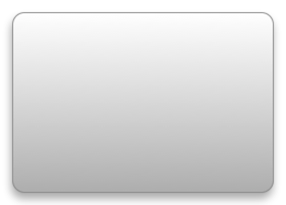
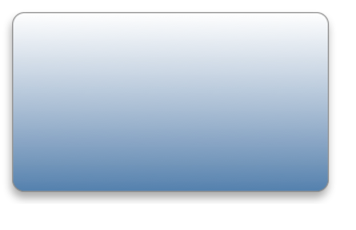
- repositioned things a bit. - added bid, ask, last volume, and updated time.
+ Still need to make it update.

diff --git a/project/widget.wdgt/main.css b/project/widget.wdgt/main.css
@@ -13,10 +13,10 @@ body {
     display: block;
     top: 0px;
     left: 0px;
-    bottom: 0px;
-    right: 0px;
     width: auto;
     height: auto;
+    right: 15px;
+    bottom: 26px;
 }
 
 #info {
@@ -25,6 +25,8 @@ body {
     bottom: 18px;
     width: 13px;
     height: 13px;
+    top: 173px;
+    left: 310px;
 }
 
 #back {
@@ -52,45 +54,242 @@ body {
 
 #helloText {
     position: absolute;
-    top: 31px;
+    top: 21px;
     width: 236px;
     color: black;
     font-family: HelveticaNeue-Bold;
-    font-size: 11pt;
+    font-size: 14pt;
     height: auto;
-    right: 23px;
-    margin-left: auto;
-    left: 27px;
-    margin-right: auto;
     text-align: center;
-}
-
-#backDevelopedWith {
-    position: absolute;
-    top: 67px;
-    left: 65px;
-    width: 150px;
-    height: 49px;
+    right: 68px;
     margin-left: auto;
+    left: 52px;
     margin-right: auto;
+    bottom: 185px;
 }
 
-#text {
-    font-size: 58px;
+#avg_24hr {
+    font-size: 68px;
     font-family: HelveticaNeue-Medium;
     text-overflow: ellipsis;
     overflow: hidden;
     width: auto;
     height: auto;
     position: absolute;
-    left: 27px;
-    top: 67px;
+    left: 17px;
+    top: 46px;
     margin-top: 0px;
-    right: 23px;
-    bottom: 33px;
     text-align: center;
+    text-shadow: rgb(191, 191, 191) 0px 0px 25px;
+    right: 33px;
+    bottom: 104px;
+}
+
+.selected #avg_24hr {
+    color: white;
+}
+
+#bid {
+    font-size: 14px;
+    font-family: 'Lucida Grande', Arial, sans-serif;
+    text-overflow: ellipsis;
+    overflow: hidden;
+    width: auto;
+    height: auto;
+    position: absolute;
+    left: 82px;
+    top: 130px;
+    margin-top: 0px;
+    text-shadow: none;
+    cursor: default;
+    -khtml-user-select: none;
+    right: 252px;
+    bottom: 84px;
+}
+
+.selected #bid {
+    color: white;
+}
+
+#text {
+    font-size: 13px;
+    font-family: 'Lucida Grande', Arial, sans-serif;
+    text-overflow: ellipsis;
+    overflow: hidden;
+    width: auto;
+    height: auto;
+    position: absolute;
+    left: 111px;
+    top: 131px;
+    margin-top: 0px;
+    right: 184px;
 }
 
 .selected #text {
     color: white;
+}
+
+#ask {
+    font-size: 14px;
+    font-family: 'Lucida Grande', Arial, sans-serif;
+    text-overflow: ellipsis;
+    overflow: hidden;
+    width: auto;
+    height: auto;
+    position: absolute;
+    left: 78px;
+    top: 147px;
+    margin-top: 0px;
+    right: 252px;
+    bottom: 67px;
+}
+
+.selected #ask {
+    color: white;
+}
+
+#text2 {
+    font-size: 13px;
+    font-family: 'Lucida Grande', Arial, sans-serif;
+    text-overflow: ellipsis;
+    overflow: hidden;
+    width: auto;
+    height: auto;
+    position: absolute;
+    left: 111px;
+    top: 147px;
+    margin-top: 0px;
+    right: 185px;
+}
+
+.selected #text2 {
+    color: white;
+}
+
+#vol {
+    font-size: 14px;
+    font-family: 'Lucida Grande', Arial, sans-serif;
+    text-overflow: ellipsis;
+    overflow: hidden;
+    width: auto;
+    height: auto;
+    position: absolute;
+    left: 183px;
+    top: 147px;
+    margin-top: 0px;
+    right: 151px;
+    bottom: 67px;
+}
+
+.selected #vol {
+    color: white;
+}
+
+#text4 {
+    font-size: 13px;
+    font-family: 'Lucida Grande', Arial, sans-serif;
+    text-overflow: ellipsis;
+    overflow: hidden;
+    width: auto;
+    height: auto;
+    position: absolute;
+    left: 215px;
+    top: 147px;
+    margin-top: 0px;
+    right: 75px;
+}
+
+.selected #text4 {
+    color: white;
+}
+
+#text6 {
+    font-size: 13px;
+    font-family: 'Lucida Grande', Arial, sans-serif;
+    text-overflow: ellipsis;
+    overflow: hidden;
+    width: auto;
+    height: auto;
+    position: absolute;
+    left: 215px;
+    top: 130px;
+    margin-top: 0px;
+    right: 75px;
+}
+
+.selected #text6 {
+    color: white;
+}
+
+#last {
+    font-size: 14px;
+    font-family: 'Lucida Grande', Arial, sans-serif;
+    text-overflow: ellipsis;
+    overflow: hidden;
+    width: auto;
+    height: auto;
+    position: absolute;
+    left: 177px;
+    top: 130px;
+    margin-top: 0px;
+    right: 155px;
+    bottom: 84px;
+}
+
+.selected #last {
+    color: white;
+}
+
+#timestamp {
+    font-size: 13px;
+    font-family: HelveticaNeue-LightItalic;
+    text-overflow: ellipsis;
+    overflow: hidden;
+    width: auto;
+    height: auto;
+    position: absolute;
+    left: 62px;
+    top: 173px;
+    margin-top: 0px;
+    color: rgb(0, 0, 0);
+    text-align: center;
+    text-shadow: none;
+    right: 78px;
+    bottom: 45px;
+}
+
+.selected #timestamp {
+    color: white;
+}
+
+#front {
+    width: auto;
+    height: auto;
+    margin-right: 0px;
+    margin-left: 0px;
+    min-height: 0px;
+}
+
+#image {
+    width: 126px;
+    height: 174px;
+    position: absolute;
+    left: 93px;
+    top: 28px;
+    right: auto;
+    bottom: auto;
+    margin-top: 0px;
+}
+
+#inner_image {
+    position: absolute;
+    bottom: 0px;
+    right: 0px;
+    left: 0px;
+    top: 0px;
+    margin: auto;
+    max-width: 100%;
+    max-height: 100%;
+    width: auto;
+    height: auto;
 }

diff --git a/project/widget.wdgt/main.html b/project/widget.wdgt/main.html
@@ -12,15 +12,24 @@
 </head>
 <body onload="load();" apple-part="com.apple.Dashcode.part.StackLayout">
     <div id="front">
-        <img id="frontImg" src="Parts/Images/front.png" alt="" apple-locked="true" apple-part="com.apple.Dashcode.part.frontimage" apple-style="image-theme: 1; image-shape: 3; image-opacity: 1.00; image-top-color: 1.0000,1.0000,1.0000; image-bottom-color: 0.6154,0.6154,0.6154; image-radius: 12,12,12,12; image-border: 1; image-border-color: 0.5294,0.5294,0.5294; image-border-width: 1; shine-strength: 0.9; shine-alpha-level: 0.67; shine-height: 0.50; glass-arc-height: 0.06; shadow-include-shadow: 1; shadow-blur: 9.00; shadow-offset: -1.00,-6.00; shadow-color: 0.0000,0.0000,0.0000,0.3333;">
+        <img id="frontImg" src="Parts/Images/front.png" alt="" apple-locked="true" apple-part="com.apple.Dashcode.part.frontimage" apple-style="image-theme: 1; image-shape: 3; image-opacity: 1.00; image-top-color: 1,1,1,1; image-bottom-color: 0.26144566,0.421692798,0.6154,1; image-radius: 12,12,12,12; image-border: 1; image-border-color: 0.5294,0.5294,0.5294,1; image-border-width: 1; shine-strength: 0.90; shine-alpha-level: 0.67; shine-height: 0.50; glass-arc-height: 0.06; shadow-include-shadow: 1; shadow-offset: -1.00,-6.00; shadow-color: 0,0,0,0.3333;">
         <div class="apple-no-children" id="info" apple-part="com.apple.Dashcode.part.infobutton" apple-default-image-visibility="hidden"></div>
-        <div apple-part="com.apple.Dashcode.part.text" class="apple-text apple-no-children" id="helloText" apple-group="text" apple-default-image-visibility="hidden" apple-style="part-height-dependent: true;"></div>
-        <div id="text" apple-part="com.apple.Dashcode.part.text" class="apple-text apple-no-children" apple-default-image-visibility="hidden" apple-text-overflow="ellipsis"></div>
+        <div apple-part="com.apple.Dashcode.part.text" class="apple-text apple-no-children" id="helloText" apple-group="text" apple-default-image-visibility="hidden"></div>
+        <div id="avg_24hr" apple-part="com.apple.Dashcode.part.text" class="apple-text apple-no-children" apple-default-image-visibility="hidden" apple-text-overflow="ellipsis"></div>
+        <div id="bid" apple-part="com.apple.Dashcode.part.text" class="apple-text apple-no-children" apple-default-image-visibility="hidden" apple-text-overflow="ellipsis" apple-locked="false"></div>
+        <div id="text" apple-part="com.apple.Dashcode.part.text" class="apple-text apple-no-children" apple-default-image-visibility="hidden" apple-text-overflow="ellipsis" apple-style="part-height-dependent: true;"></div>
+        <div id="ask" apple-part="com.apple.Dashcode.part.text" class="apple-text apple-no-children" apple-default-image-visibility="hidden" apple-text-overflow="ellipsis"></div>
+        <div id="text2" apple-part="com.apple.Dashcode.part.text" class="apple-text apple-no-children" apple-default-image-visibility="hidden" apple-text-overflow="ellipsis" apple-style="part-height-dependent: true;"></div>
+        <div id="vol" apple-part="com.apple.Dashcode.part.text" class="apple-text apple-no-children" apple-default-image-visibility="hidden" apple-text-overflow="ellipsis"></div>
+        <div id="text4" apple-part="com.apple.Dashcode.part.text" class="apple-text apple-no-children" apple-default-image-visibility="hidden" apple-text-overflow="ellipsis" apple-style="part-height-dependent: true;"></div>
+        <div id="last" apple-part="com.apple.Dashcode.part.text" class="apple-text apple-no-children" apple-default-image-visibility="hidden" apple-text-overflow="ellipsis"></div>
+        <div id="text6" apple-part="com.apple.Dashcode.part.text" class="apple-text apple-no-children" apple-default-image-visibility="hidden" apple-text-overflow="ellipsis" apple-style="part-height-dependent: true;"></div>
+        <div id="timestamp" apple-part="com.apple.Dashcode.part.text" class="apple-text apple-no-children" apple-default-image-visibility="hidden" apple-text-overflow="ellipsis"></div>
     </div>
     <div id="back">
         <img id="backImg" src="Parts/Images/back.png" alt="" apple-locked="true" apple-part="com.apple.Dashcode.part.backimage" apple-style=" image-radius: 12,12,12,12; image-border: 1; image-border-color: 0.1500,0.1500,0.1500; image-border-width: 3; shadow-include-shadow: 1; shadow-blur: 9.00; shadow-offset: -1.00,-6.00; shadow-color: 0.0000,0.0000,0.0000,0.3333;">
-        <img src="Images/DevelopedWith.png" alt="Created with Dashcode" id="backDevelopedWith">
         <div id="done" class="apple-no-children" apple-part="com.apple.Dashcode.part.glassbutton"></div>
+        <div apple-part="com.apple.Dashcode.part.imageLayout" id="image" apple-group="image"><img class="apple-hidden" src="Images/IMG_1237.JPG" id="inner_image" apple-group="image"></div>
     </div>
 </body>
 </html>

diff --git a/project/widget.wdgt/Parts/setup.js b/project/widget.wdgt/Parts/setup.js
@@ -5,9 +5,21 @@
  code generator otherwise the changes will be lost.
  */
 var dashcodePartSpecs = {
+    "ask": { "text": "ask", "view": "DC.Text" },
+    "avg_24hr": { "propertyValues": { "enabledBinding": { "keypath": "dataSource.content.24h_avg" }, "textBinding": { "keypath": "dataSource.content.24h_avg" }, "visibleBinding": { "keypath": "dataSource.content.24h_avg" } }, "text": "$0.00", "view": "DC.Text" },
+    "bid": { "text": "bid", "view": "DC.Text" },
     "done": { "creationFunction": "CreateGlassButton", "onclick": "showFront", "text": "Done" },
     "helloText": { "text": "Hello, World!", "view": "DC.Text" },
+    "image": { "view": "DC.ImageLayout" },
     "info": { "backgroundStyle": "black", "creationFunction": "CreateInfoButton", "foregroundStyle": "white", "frontID": "front", "onclick": "showBack" },
-    "text": { "propertyValues": { "enabledBinding": { "keypath": "dataSource.content.24h_avg" }, "textBinding": { "keypath": "dataSource.content.24h_avg" }, "visibleBinding": { "keypath": "dataSource.content.24h_avg" } }, "text": "Text", "view": "DC.Text" }
+    "last": { "text": "last", "view": "DC.Text" },
+    "text": { "propertyValues": { "enabledBinding": { "keypath": "dataSource.content.bid" }, "textBinding": { "keypath": "dataSource.content.bid" }, "visibleBinding": { "keypath": "dataSource.content.bid" } }, "text": "-", "view": "DC.Text" },
+    "text2": { "propertyValues": { "enabledBinding": { "keypath": "dataSource.content.ask" }, "textBinding": { "keypath": "dataSource.content.ask" }, "visibleBinding": { "keypath": "dataSource.content.ask" } }, "text": "-", "view": "DC.Text" },
+    "text4": { "propertyValues": { "enabledBinding": { "keypath": "dataSource.content.total_vol" }, "textBinding": { "keypath": "dataSource.content.total_vol" }, "visibleBinding": { "keypath": "dataSource.content.total_vol" } }, "text": "-", "view": "DC.Text" },
+    "text6": { "propertyValues": { "enabledBinding": { "keypath": "dataSource.content.last" }, "textBinding": { "keypath": "dataSource.content.last" }, "visibleBinding": { "keypath": "dataSource.content.last" } }, "text": "-", "view": "DC.Text" },
+    "timestamp": { "propertyValues": { "enabledBinding": { "keypath": "dataSource.content.timestamp" }, "textBinding": { "keypath": "dataSource.content.timestamp" }, "visibleBinding": { "keypath": "dataSource.content.timestamp" } }, "text": "-", "view": "DC.Text" },
+    "vol": { "text": "vol", "view": "DC.Text" }
 };
+
+
 

diff --git a/project/widget.wdgt/Parts/datasources.js b/project/widget.wdgt/Parts/datasources.js
@@ -5,5 +5,6 @@
  code generator otherwise the changes will be lost.
  */
 var dashcodeDataSources = {
-    "dataSource": { "Class": "DC.AjaxController", "propertyValues": { "url": "https://api.bitcoinaverage.com/ticker/USD", "dataModel": { "cacheSample": true, "uuid": "2DEEF9E0-0A1C-47CA-AC13-FB2CA1C59EBA", "url": null, "dataType": "json", "version": 1, "root": "", "model": { "24h_avg": 1, "ask": 1, "bid": 1, "last": 1, "timestamp": "", "total_vol": 1 } }, "parameters": {} } }
+    "dataSource": { "Class": "DC.AjaxController", "propertyValues": { "url": "https://api.bitcoinaverage.com/ticker/USD?", "dataModel": { "cacheSample": true, "uuid": "1ED32160-D5E9-47A8-96E0-AC127F05CA30", "url": null, "dataType": "json", "version": 1, "root": "", "model": { "24h_avg": 1, "ask": 1, "bid": 1, "last": 1, "timestamp": "", "total_vol": 1 } }, "parameters": { "update": "1" } } }
 };
+

diff --git a/project/widget.wdgt/en.lproj/localizedStrings.js b/project/widget.wdgt/en.lproj/localizedStrings.js
@@ -9,3 +9,6 @@ var localizedStrings = {
     "Hello, World!": "Bitcoin Exchange Rate"
 };
 
+
+
+
